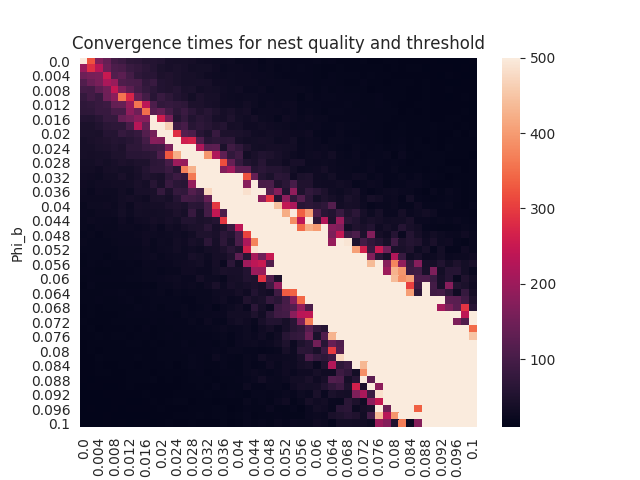
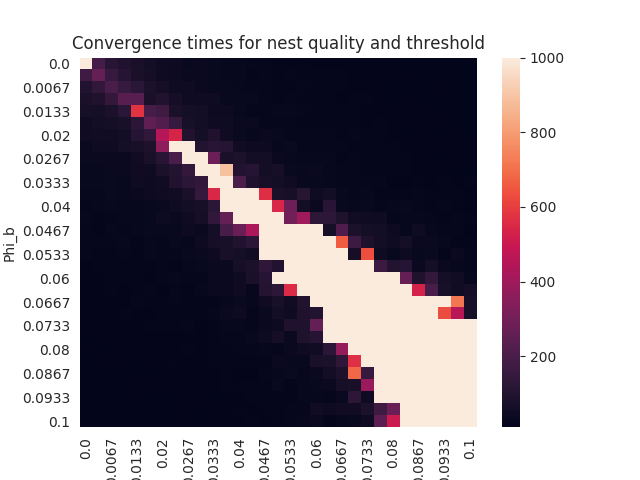
Additional agent-based model testing

diff --git a/saldyt_2018_agent_based/agent.py b/saldyt_2018_agent_based/agent.py
@@ -107,40 +107,40 @@ alphas = [0.015]
 #betas  = alphas
 betas  = [0.02]
 phis   = [0.013]
-phis   = np.linspace(0.0, 0.1, 51)
+phis   = np.linspace(0.0, 0.1, 31)
 
 #simulate(208, [0.0, 0.015, 0.02, 0.03], [0.0, 0.013, 0.013, 0.013], True, iterations=5000)
 #simulate(1000, [0.0, 0.015, 0.015, 0.015], [0.0, 0.013, 0.013, 0.013], True, iterations=1000)
-simulate(1000, [0.0, 0.3, 0.25, 0.9], [0.0, 0.1, 0.1, 0.05], True, iterations=1000)
-# for N in Ns:
-#     for alpha in alphas:
-#         for beta in betas:
-#             for phi_a in phis:
-#                 for phi_b in phis:
-#                     add = lambda k, v : data[k].append(round(v, 4))
-#                     data['N'].append(N)
-#                     add('alpha', alpha)
-#                     add('beta', beta)
-#                     add('phi_a', phi_a)
-#                     add('phi_b', phi_b)
-#                     weights = [0.0, alpha, beta]
-#                     phi     = [0.0, phi_a, phi_b]
-#                     data['iterations'].append(simulate(N, weights, phi))
-#
-# #print(data)
-# original_data = pandas.DataFrame(data)
-# print(original_data)
-# #data = original_data.pivot_table(values='iterations', index='beta', columns=['alpha'])
-# #sns.heatmap(data, yticklabels=True, xticklabels=True)
-# #plt.title('Convergence times for nest quality and threshold')
-# #plt.xlabel('Alpha')
-# #plt.ylabel('Beta')
-# #plt.savefig('agent_convergence_times.png')
-# #plt.show()
-# data = original_data.pivot_table(values='iterations', index='phi_b', columns=['phi_a'])
-# sns.heatmap(data)#, yticklabels=True)
-# plt.title('Convergence times for nest quality and threshold')
-# plt.xlabel('Phi_a')
-# plt.ylabel('Phi_b')
-# plt.savefig('distance_agent_convergence_times.png')
-# plt.show()
+#simulate(1000, [0.0, 0.3, 0.25, 0.9], [0.0, 0.1, 0.1, 0.05], True, iterations=1000)
+for N in Ns:
+    for alpha in alphas:
+        for beta in betas:
+            for phi_a in phis:
+                for phi_b in phis:
+                    add = lambda k, v : data[k].append(round(v, 4))
+                    data['N'].append(N)
+                    add('alpha', alpha)
+                    add('beta', beta)
+                    add('phi_a', phi_a)
+                    add('phi_b', phi_b)
+                    weights = [0.0, alpha, beta]
+                    phi     = [0.0, phi_a, phi_b]
+                    data['iterations'].append(simulate(N, weights, phi, iterations=1000))
+
+#print(data)
+original_data = pandas.DataFrame(data)
+print(original_data)
+#data = original_data.pivot_table(values='iterations', index='beta', columns=['alpha'])
+#sns.heatmap(data, yticklabels=True, xticklabels=True)
+#plt.title('Convergence times for nest quality and threshold')
+#plt.xlabel('Alpha')
+#plt.ylabel('Beta')
+#plt.savefig('agent_convergence_times.png')
+#plt.show()
+data = original_data.pivot_table(values='iterations', index='phi_b', columns=['phi_a'])
+sns.heatmap(data)#, yticklabels=True)
+plt.title('Convergence times for nest quality and threshold')
+plt.xlabel('Phi_a')
+plt.ylabel('Phi_b')
+plt.savefig('distance_agent_convergence_times.png')
+plt.show()
